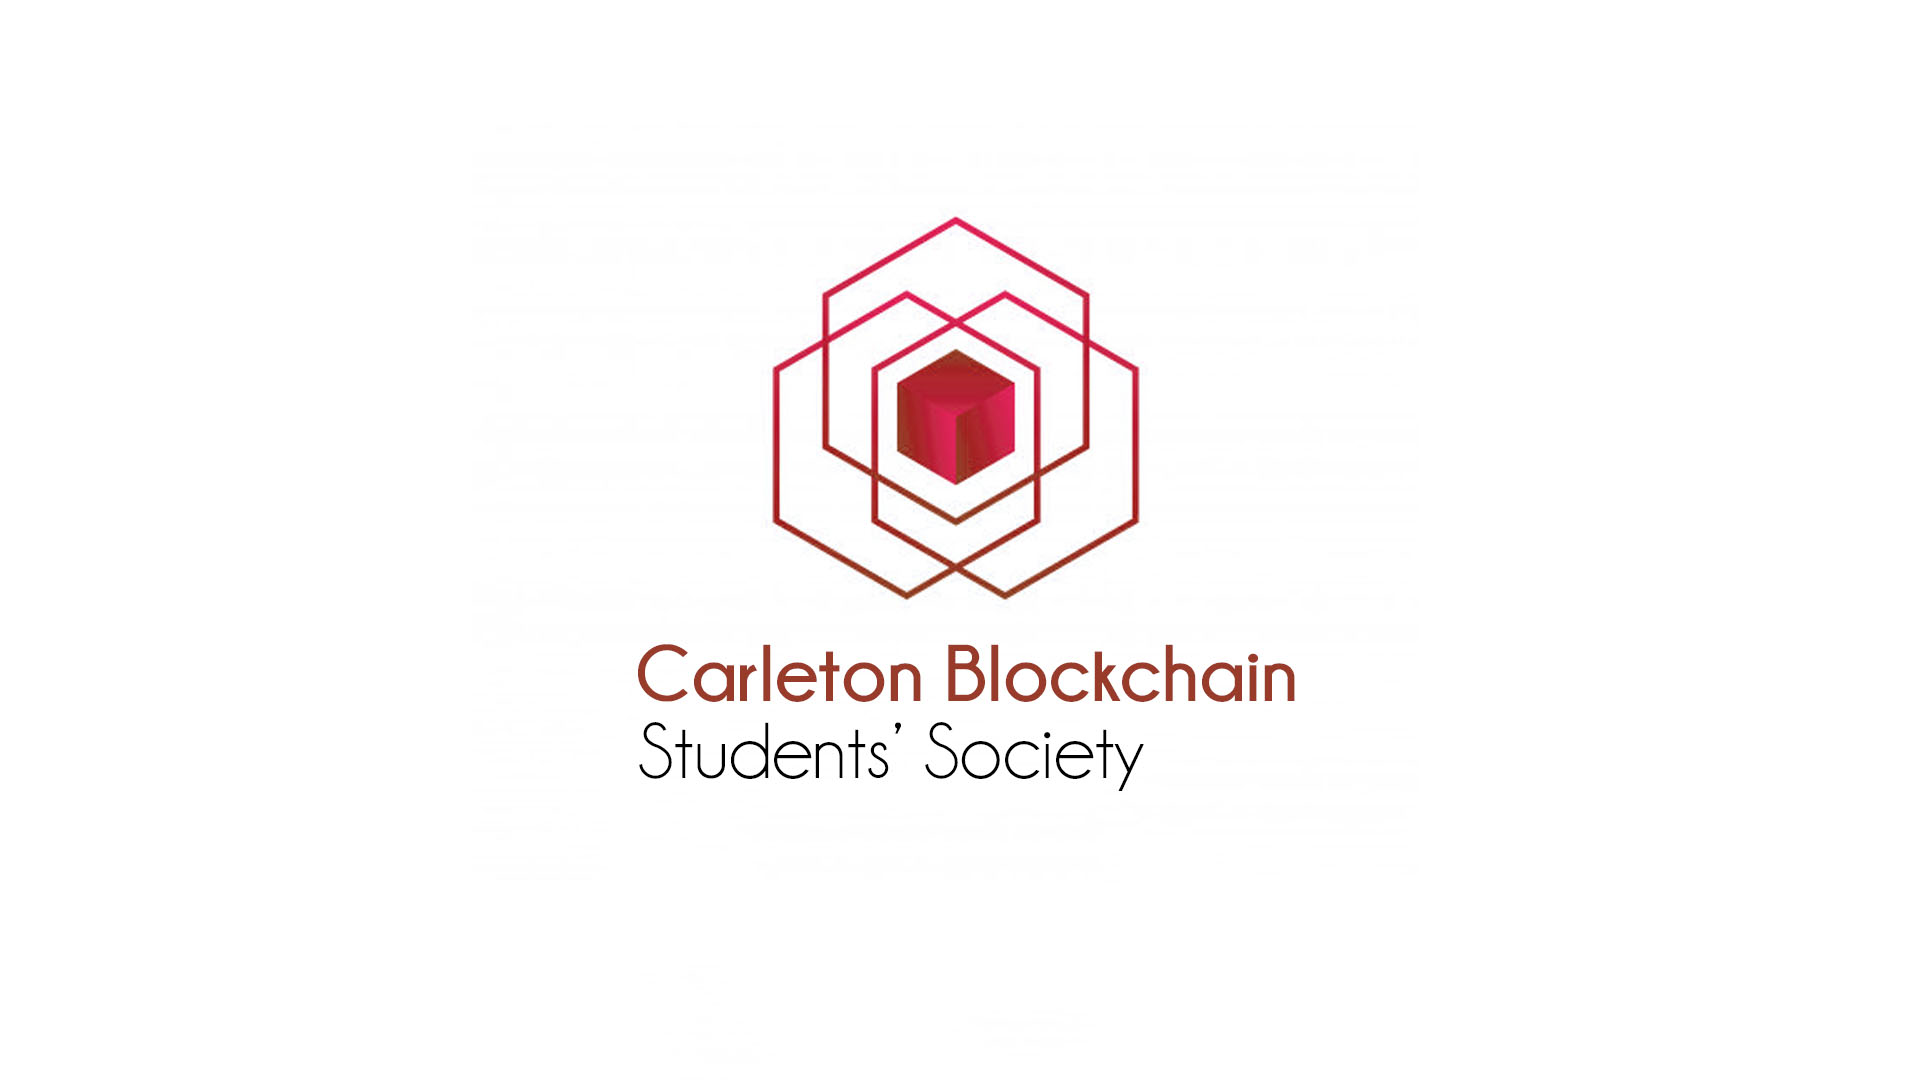
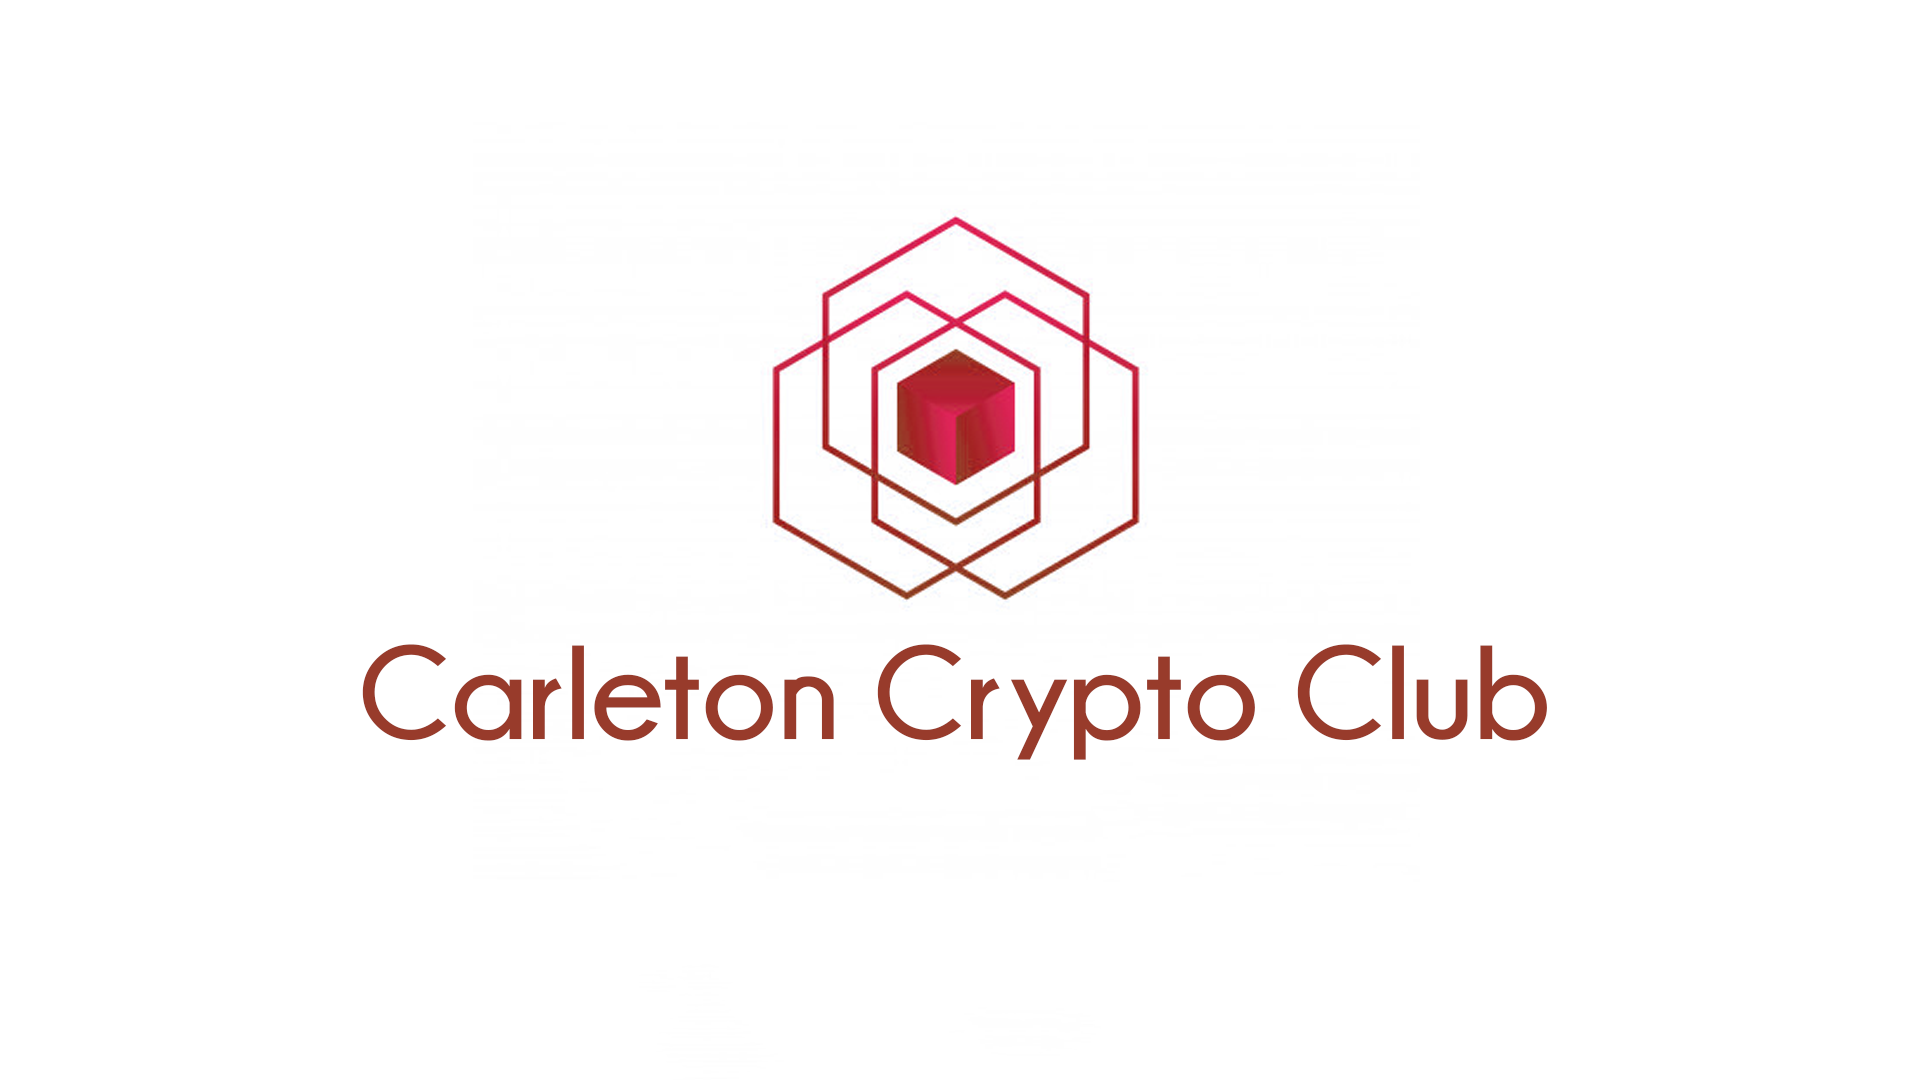
FirstEdition

Changed region(s): [[0.1875, 0.5806, 0.6875, 0.7333], [0.6875, 0.6111, 0.8125, 0.7028], [0.6875, 0.5806, 0.7188, 0.6111]]

diff --git a/team.html b/team.html
@@ -121,7 +121,7 @@ License URL: https://creativecommons.org/licenses/by/4.0/
         <div class="team-p2-cont wow fadeInUp" data-wow-delay="0.2s">
            <img src="img/team/tempProf.png" class="img-fluid" alt="...">
            <h5>James Thomas</h5>
-           <h6>CEO & Cofounder</h6>
+           <h6>Executive</h6>
            <ul class="list-inline social-icon-f top-data">
               <li><a href="#" target="_empty"><i class="fa top-social fa-facebook"></i></a></li>
               <li><a href="#" target="_empty"><i class="fa top-social fa-google-plus"></i></a></li> 
@@ -132,7 +132,7 @@ License URL: https://creativecommons.org/licenses/by/4.0/
         <div class="team-p2-cont wow fadeInUp" data-wow-delay="0.4s">
            <img src="img/team/tempProf.png" class="img-fluid" alt="...">
            <h5>Dennis Liu</h5>
-           <h6>CEO & Cofounder</h6>
+           <h6>Executive</h6>
            <ul class="list-inline social-icon-f top-data">
               <li><a href="#" target="_empty"><i class="fa top-social fa-facebook"></i></a></li>
               <li><a href="#" target="_empty"><i class="fa top-social fa-google-plus"></i></a></li> 
@@ -143,7 +143,7 @@ License URL: https://creativecommons.org/licenses/by/4.0/
         <div class="team-p2-cont wow fadeInUp" data-wow-delay="0.6s">
            <img src="img/team/tempProf.png" class="img-fluid" alt="...">
            <h5>Anthony Moniuszko</h5>
-           <h6>CEO & Cofounder</h6>
+           <h6>Executive</h6>
            <ul class="list-inline social-icon-f top-data">
               <li><a href="#" target="_empty"><i class="fa top-social fa-facebook"></i></a></li>
               <li><a href="#" target="_empty"><i class="fa top-social fa-google-plus"></i></a></li> 
@@ -160,7 +160,7 @@ License URL: https://creativecommons.org/licenses/by/4.0/
         <div class="team-p2-cont wow fadeInUp" data-wow-delay="0.2s">
            <img src="img/team/tempProf.png" class="img-fluid" alt="...">
            <h5>Shatil Masud</h5>
-           <h6>CEO & Cofounder</h6>
+           <h6>Executive</h6>
            <ul class="list-inline social-icon-f top-data">
               <li><a href="#" target="_empty"><i class="fa top-social fa-facebook"></i></a></li>
               <li><a href="#" target="_empty"><i class="fa top-social fa-google-plus"></i></a></li> 
@@ -171,7 +171,7 @@ License URL: https://creativecommons.org/licenses/by/4.0/
         <div class="team-p2-cont wow fadeInUp" data-wow-delay="0.4s">
            <img src="img/team/tempProf.png" class="img-fluid" alt="...">
            <h5>Dylan Peters</h5>
-           <h6>CEO & Cofounder</h6>
+           <h6>Executive</h6>
            <ul class="list-inline social-icon-f top-data">
               <li><a href="#" target="_empty"><i class="fa top-social fa-facebook"></i></a></li>
               <li><a href="#" target="_empty"><i class="fa top-social fa-google-plus"></i></a></li> 
@@ -184,63 +184,62 @@ License URL: https://creativecommons.org/licenses/by/4.0/
 <!--====================================================
                       FOOTER
 ======================================================--> 
-<footer> 
-  <div id="footer-s1" class="footer-s1">
-    <div class="footer">
-      <div class="container">
-        <div class="row">
-          <!-- About Us -->
-          <div class="col-md-3 col-sm-6 ">
-            <div class="heading-footer"><h2>Carleton Blockchain Students' Society</h2></div>
-            <ul class="list-unstyled comp-desc-f">
-               <li><p>Carleton Blockchain Students' Society is a platform to promote all things blockchain. Started in the summer of 2018, the CBSS was launched. </p></li> 
-            </ul><br> 
-          </div>
-          <!-- End About Us -->
+    <footer> 
+        <div id="footer-s1" class="footer-s1">
+          <div class="footer">
+            <div class="container">
+              <div class="row">
+                <!-- About Us -->
+                <div class="col-md-3 col-sm-6 ">
+                  <div class="heading-footer"><h2>Carleton Crypto Club</h2></div>
+                  <ul class="list-unstyled comp-desc-f">
+                     <li><p>Carleton Crypto Club is dedicated to  </p></li> 
+                  </ul><br> 
+                </div>
+                <!-- End About Us -->
 
-          <!-- Recent News -->
-          <div class="col-md-3 col-sm-6 ">
-          </div>
-          <!-- End Recent list -->
+                <!-- Recent News -->
+                <div class="col-md-3 col-sm-6 ">
+                </div>
+                <!-- End Recent list -->
 
-          <!-- Recent Blog Entries -->
-          <div class="col-md-3 col-sm-6 ">
-          </div>
-          <!-- End Recent Blog Entries -->
+                <!-- Recent Blog Entries -->
+                <div class="col-md-3 col-sm-6 ">
+                </div>
+                <!-- End Recent Blog Entries -->
 
-          <!-- Latest Tweets -->
-          <div class="col-md-3 col-sm-6">
-            <div class="heading-footer"><h2>Get In Touch</h2></div>
-            <ul class="list-inline social-icon-f top-data">
-              <li><a href="https://www.facebook.com/carletonblockchain/" target="_empty"><i class="fa top-social fa-facebook"></i></a></li>
-              <li><a href="https://www.linkedin.com/company/carleton-blockchain-students-society/" target="_empty"><i class="fa top-social fa-linkedin"></i></a></li>
-              <li><a href="https://www.campusvibe.ca/campusvibe/group/a89a7547-a041-47b3-904d-8401cc7a367c/76dcb5d0-f33b-4426-8a76-4c0e8dcd2a92" target="_empty"><i class="fa top-social fa-user-plus"></i></a></li> 
-            </ul>
-          </div>
-          <!-- End Latest Tweets -->
+                <!-- Latest Tweets -->
+                <div class="col-md-3 col-sm-6">
+                  <div class="heading-footer"><h2>Get In Touch</h2></div>
+                  <ul class="list-inline social-icon-f top-data">
+                    <li><a href="https://www.facebook.com/groups/195253671072617/" target="_empty"><i class="fa top-social fa-facebook"></i></a></li>
+                    <li><a href="https://www.linkedin.com/company/carleton-cryptocurrency-club/" target="_empty"><i class="fa top-social fa-linkedin"></i></a></li>
+                    <li><a href="https://cusahub.ca/campusvibe/group/a89a7547-a041-47b3-904d-8401cc7a367c/d827fd45-34d4-4370-a014-9eb4fa0d2225" target="_empty"><i class="fa top-social fa-user-plus"></i></a></li> 
+                  </ul>
+                </div>
+                <!-- End Latest Tweets -->
+              </div>
+            </div><!--/container -->
+          </div> 
         </div>
-      </div><!--/container -->
-    </div> 
-  </div>
 
-  <div id="footer-bottom">
-      <div class="container">
-          <div class="row">
-              <div class="col-md-12">
-                  <div id="footer-copyrights">
-                      <p>Copyrights &copy; 2018 All Rights Reserved.</p>
-                  </div>
-              </div> 
-          </div>
-      </div>
-  </div>
-  <a href="#top" id="back-to-top" class="btn btn-sm btn-green btn-back-to-top smooth-scrolls hidden-sm hidden-xs" title="home" role="button">
-      <i class="fa fa-angle-up"></i>
-  </a>
-</footer>
+        <div id="footer-bottom">
+            <div class="container">
+                <div class="row">
+                    <div class="col-md-12">
+                        <div id="footer-copyrights">
+                            <p>Copyrights &copy; 2018 All Rights Reserved.</p>
+                        </div>
+                    </div> 
+                </div>
+            </div>
+        </div>
+        <a href="#top" id="back-to-top" class="btn btn-sm btn-green btn-back-to-top smooth-scrolls hidden-sm hidden-xs" title="home" role="button">
+            <i class="fa fa-angle-up"></i>
+        </a>
+    </footer>
 
-
-    <!-- Global JavaScript -->
+    <!--Global JavaScript -->
     <script src="js/jquery/jquery.min.js"></script>
     <script src="js/popper/popper.min.js"></script>
     <script src="js/bootstrap/bootstrap.min.js"></script>
@@ -249,9 +248,7 @@ License URL: https://creativecommons.org/licenses/by/4.0/
 
     <!-- Plugin JavaScript -->
     <script src="js/jquery-easing/jquery.easing.min.js"></script> 
-
     <script src="js/custom.js"></script> 
-    
   </body>
 
 </html>

diff --git a/index.html b/index.html
@@ -91,7 +91,7 @@ License URL: https://creativecommons.org/licenses/by/4.0/
           <div class="col-md-12">
             <h1 class="wow fadeInUp">Our Mission</h1>
             <div class="heading-border"></div><br>
-            <p class="wow fadeInUp" data-wow-delay="0.4s">CBSS strives to provide value towards a non-traditional Blockchain audience, by advocating the significance of Blockchain technology in all disciplines. Our target audience encompasses STEM related majors, arts and social sciences and beyond, through interdisciplinary educational opportunities and industry connections.  </p>
+            <p class="wow fadeInUp" data-wow-delay="0.4s">Carleton Crypto Club strives to provide value towards a non-traditional Blockchain audience, by advocating the significance of Blockchain technology in all disciplines. Our target audience encompasses STEM related majors, arts and social sciences and beyond, through interdisciplinary educational opportunities and industry connections.  </p>
           </div>
         </div>
       </div>  
@@ -109,14 +109,14 @@ License URL: https://creativecommons.org/licenses/by/4.0/
             <div class="about-content-box wow fadeInUp" data-wow-delay="0.5s">
               <i class="fa fa-calendar"></i>
               <h5>Hosting Events</h5>
-              <p class="desc">We plan to host events relating to blockchain during the coming months. Please stay tuned.</p>
+              <p class="desc">We plan to host events relating to Cryptocurrency,FinTech, and Blockchain technology during the coming months. Please stay tuned.</p>
             </div>
           </div> 
           <div class="col-md-4 bg-matisse">
             <div class="about-content-box wow fadeInUp" data-wow-delay="0.7s">
               <i class="fa fa-link"></i>
               <h5>Business Connections</h5>
-              <p class="desc">The Carleton Blockchain Students' Society works hard to maintain good connections with our partners. Meet some in our events.</p>
+              <p class="desc">The Carleton Crypto Club works hard to maintain good connections with our partners. Meet some in our events.</p>
             </div>
           </div> 
         </div> 
@@ -204,9 +204,9 @@ License URL: https://creativecommons.org/licenses/by/4.0/
                     </div>
                     <div class="col-md-4"> 
                         <ul class="list-inline social-icon-f top-data">
-                          <li><a href="https://www.facebook.com/carletonblockchain/" target="_empty"><i class="fa top-social fa-facebook" style="height: 35px; width:35px; line-height: 35px;"></i></a></li>
-                          <li><a href="https://www.linkedin.com/company/carleton-blockchain-students-society/" target="_empty"><i class="fa top-social fa-linkedin" style="height: 35px; width:35px; line-height: 35px;"></i></a></li>
-                          <li><a href="https://www.campusvibe.ca/campusvibe/group/a89a7547-a041-47b3-904d-8401cc7a367c/76dcb5d0-f33b-4426-8a76-4c0e8dcd2a92" target="_empty"><i class="fa top-social fa-user-plus" style="height: 35px; width:35px; line-height: 35px;"></i></a></li> 
+                          <li><a href="https://www.facebook.com/groups/195253671072617/" target="_empty"><i class="fa top-social fa-facebook" style="height: 35px; width:35px; line-height: 35px;"></i></a></li>
+                          <li><a href="https://www.linkedin.com/company/carleton-cryptocurrency-club/" target="_empty"><i class="fa top-social fa-linkedin" style="height: 35px; width:35px; line-height: 35px;"></i></a></li>
+                          <li><a href="https://cusahub.ca/campusvibe/group/a89a7547-a041-47b3-904d-8401cc7a367c/d827fd45-34d4-4370-a014-9eb4fa0d2225" target="_empty"><i class="fa top-social fa-user-plus" style="height: 35px; width:35px; line-height: 35px;"></i></a></li> 
                         </ul>
                     </div>  
                   </div>
@@ -268,9 +268,9 @@ License URL: https://creativecommons.org/licenses/by/4.0/
               <div class="row">
                 <!-- About Us -->
                 <div class="col-md-3 col-sm-6 ">
-                  <div class="heading-footer"><h2>Carleton Blockchain Students' Society</h2></div>
+                  <div class="heading-footer"><h2>Carleton Crypto Club</h2></div>
                   <ul class="list-unstyled comp-desc-f">
-                     <li><p>Carleton Blockchain Students' Society is a platform to promote all things blockchain. Started in the summer of 2018, the CBSS was launched. </p></li> 
+                     <li><p>Carleton Crypto Club is dedicated to  </p></li> 
                   </ul><br> 
                 </div>
                 <!-- End About Us -->
@@ -289,9 +289,9 @@ License URL: https://creativecommons.org/licenses/by/4.0/
                 <div class="col-md-3 col-sm-6">
                   <div class="heading-footer"><h2>Get In Touch</h2></div>
                   <ul class="list-inline social-icon-f top-data">
-                    <li><a href="https://www.facebook.com/carletonblockchain/" target="_empty"><i class="fa top-social fa-facebook"></i></a></li>
-                    <li><a href="https://www.linkedin.com/company/carleton-blockchain-students-society/" target="_empty"><i class="fa top-social fa-linkedin"></i></a></li>
-                    <li><a href="https://www.campusvibe.ca/campusvibe/group/a89a7547-a041-47b3-904d-8401cc7a367c/76dcb5d0-f33b-4426-8a76-4c0e8dcd2a92" target="_empty"><i class="fa top-social fa-user-plus"></i></a></li> 
+                    <li><a href="https://www.facebook.com/groups/195253671072617/" target="_empty"><i class="fa top-social fa-facebook"></i></a></li>
+                    <li><a href="https://www.linkedin.com/company/carleton-cryptocurrency-club/" target="_empty"><i class="fa top-social fa-linkedin"></i></a></li>
+                    <li><a href="https://cusahub.ca/campusvibe/group/a89a7547-a041-47b3-904d-8401cc7a367c/d827fd45-34d4-4370-a014-9eb4fa0d2225" target="_empty"><i class="fa top-social fa-user-plus"></i></a></li> 
                   </ul>
                 </div>
                 <!-- End Latest Tweets -->

diff --git a/calendar.html b/calendar.html
@@ -142,9 +142,9 @@ License URL: https://creativecommons.org/licenses/by/4.0/
         <div class="row">
           <!-- About Us -->
           <div class="col-md-3 col-sm-6 ">
-            <div class="heading-footer"><h2>Carleton Blockchain Students' Society</h2></div>
+            <div class="heading-footer"><h2>Carleton Crypto Club</h2></div>
             <ul class="list-unstyled comp-desc-f">
-               <li><p>Carleton Blockchain Students' Society is a platform to promote all things blockchain. Started in the summer of 2018, the CBSS was launched. </p></li> 
+               <li><p>Carleton Crypto Club is dedicated to  </p></li> 
             </ul><br> 
           </div>
           <!-- End About Us -->
@@ -163,9 +163,9 @@ License URL: https://creativecommons.org/licenses/by/4.0/
           <div class="col-md-3 col-sm-6">
             <div class="heading-footer"><h2>Get In Touch</h2></div>
             <ul class="list-inline social-icon-f top-data">
-              <li><a href="https://www.facebook.com/carletonblockchain/" target="_empty"><i class="fa top-social fa-facebook"></i></a></li>
-              <li><a href="https://www.linkedin.com/company/carleton-blockchain-students-society/" target="_empty"><i class="fa top-social fa-linkedin"></i></a></li>
-              <li><a href="https://www.campusvibe.ca/campusvibe/group/a89a7547-a041-47b3-904d-8401cc7a367c/76dcb5d0-f33b-4426-8a76-4c0e8dcd2a92" target="_empty"><i class="fa top-social fa-user-plus"></i></a></li> 
+              <li><a href="https://www.facebook.com/groups/195253671072617/" target="_empty"><i class="fa top-social fa-facebook"></i></a></li>
+              <li><a href="https://www.linkedin.com/company/carleton-cryptocurrency-club/" target="_empty"><i class="fa top-social fa-linkedin"></i></a></li>
+              <li><a href="https://cusahub.ca/campusvibe/group/a89a7547-a041-47b3-904d-8401cc7a367c/d827fd45-34d4-4370-a014-9eb4fa0d2225" target="_empty"><i class="fa top-social fa-user-plus"></i></a></li> 
             </ul>
           </div>
           <!-- End Latest Tweets -->
@@ -190,17 +190,16 @@ License URL: https://creativecommons.org/licenses/by/4.0/
   </a>
 </footer>
 
+<!--Global JavaScript -->
+<script src="js/jquery/jquery.min.js"></script>
+<script src="js/popper/popper.min.js"></script>
+<script src="js/bootstrap/bootstrap.min.js"></script>
+<script src="js/wow/wow.min.js"></script>
+<script src="js/owl-carousel/owl.carousel.min.js"></script>
 
-    <!--Global JavaScript -->
-    <script src="js/popper/popper.min.js"></script>
-    <script src="js/bootstrap/bootstrap.min.js"></script>
-    <script src="js/wow/wow.min.js"></script>
-    <script src="js/owl-carousel/owl.carousel.min.js"></script>
-
-    <!-- Plugin JavaScript -->
-    <script src="js/jquery-easing/jquery.easing.min.js"></script> 
-    
-    <script src="js/custom.js"></script> 
-  </body>
+<!-- Plugin JavaScript -->
+<script src="js/jquery-easing/jquery.easing.min.js"></script> 
+<script src="js/custom.js"></script> 
+</body>
 
 </html>
